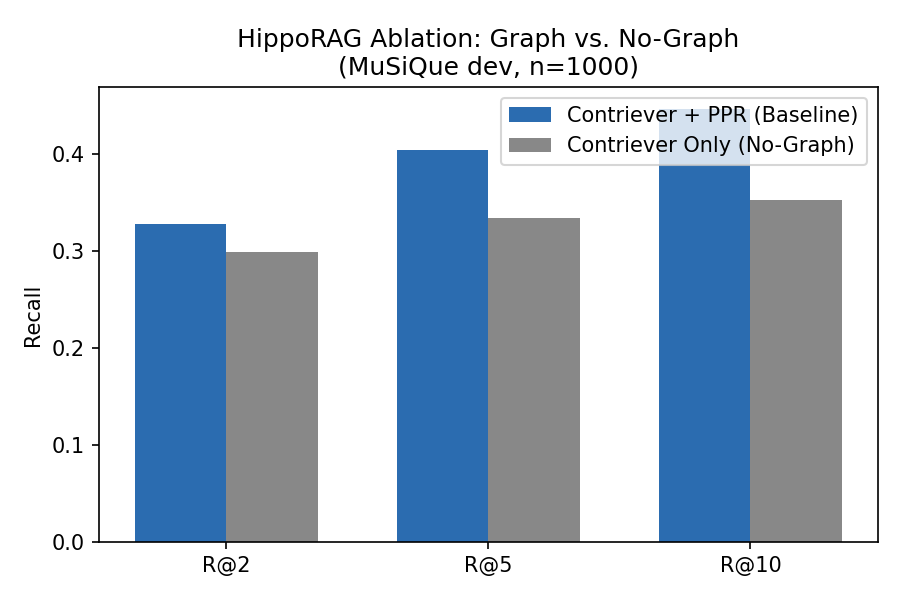
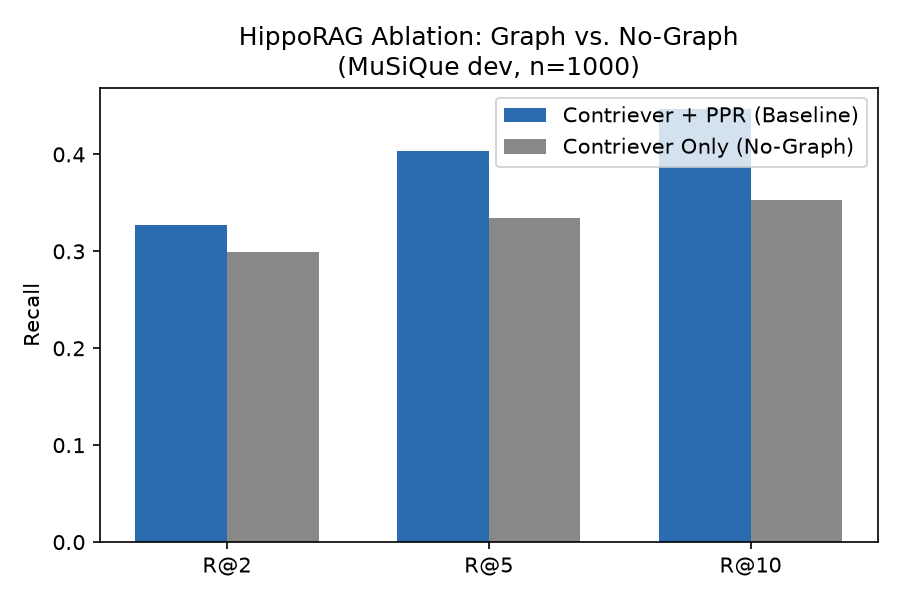
Add CI check and architecture doc

diff --git a/docs/ARCHITECTURE.md b/docs/ARCHITECTURE.md
@@ -1,0 +1,33 @@
+# Repository Architecture
+
+This repo contains an analysis of stored results, not the retrieval pipeline
+itself.
+
+## Data flow
+
+1. `results/baseline_ppr.json` and `results/variant_no_graph.json` hold
+   per-query outputs for 1,000 MuSiQue dev queries: one run with PPR graph
+   reasoning (baseline) and one with Contriever only (variant). Each record
+   has the query `id` and a `recall` dictionary keyed by k.
+2. `compute_recall.py` averages the stored recall values for k = 2, 5, 10 and
+   writes `results/comparison_chart.png`.
+3. `bootstrap_ci.py` pairs the two files by query `id` and computes a 95%
+   paired bootstrap confidence interval for the recall difference, written to
+   `results/bootstrap_ci.txt`.
+4. `.github/workflows/check.yml` runs both scripts on every push.
+
+## What is not in this repo
+
+- The code that produced the two JSON files (HippoRAG's original pipeline).
+  See the Provenance section in the README.
+- The knowledge graph and indexes.
+
+## Files
+
+| File | Purpose |
+| --- | --- |
+| `README.md` | Results, how to reproduce, limitations, provenance |
+| `paper.md` | Full write-up |
+| `compute_recall.py` | Recall@k from stored results, bar chart |
+| `bootstrap_ci.py` | Paired bootstrap confidence intervals |
+| `requirements.txt` | Python dependencies |

diff --git a/README.md b/README.md
@@ -26,7 +26,7 @@ graph reasoning is the main driver of HippoRAG's gains.
 ![Recall Comparison Chart](./results/comparison_chart.png)
 
 ## Repository Structure
-
+See docs/ARCHITECTURE.md for the data flow.
 ```
 hipporag-graph-ablation/
 ├── README.md               # this file
@@ -73,14 +73,13 @@ retrieval experiment itself.
   not in this repo. See Provenance below.
 - Percent drops in the table are relative; absolute differences are in
   `results/bootstrap_ci.txt`.
+  ## Provenance
 
-## Provenance
-
-- Retrieval run: [ADD Kaggle notebook link, or write: "Not available. The JSON
-  files come from an earlier run and no configuration was saved."]
-- Based on HippoRAG's original pipeline and code (OSU-NLP-Group). My
-  contribution: [ADD what you actually did, e.g. Python 3.12 patches, running
-  the two configurations, `compute_recall.py`, `bootstrap_ci.py`, paper.md].
+- Retrieval run: Not available. The two JSON files in `results/` come from an earlier run on Kaggle, and no run configuration was saved.
+- Based on HippoRAG's original pipeline and code (OSU-NLP-Group). 
+My contribution: running the two configurations (with and without PPR) on
+  MuSiQue, the Python 3.12 patches, `compute_recall.py`, `bootstrap_ci.py`,
+  and the write-up in `paper.md`.
 
 ## Citation
 
